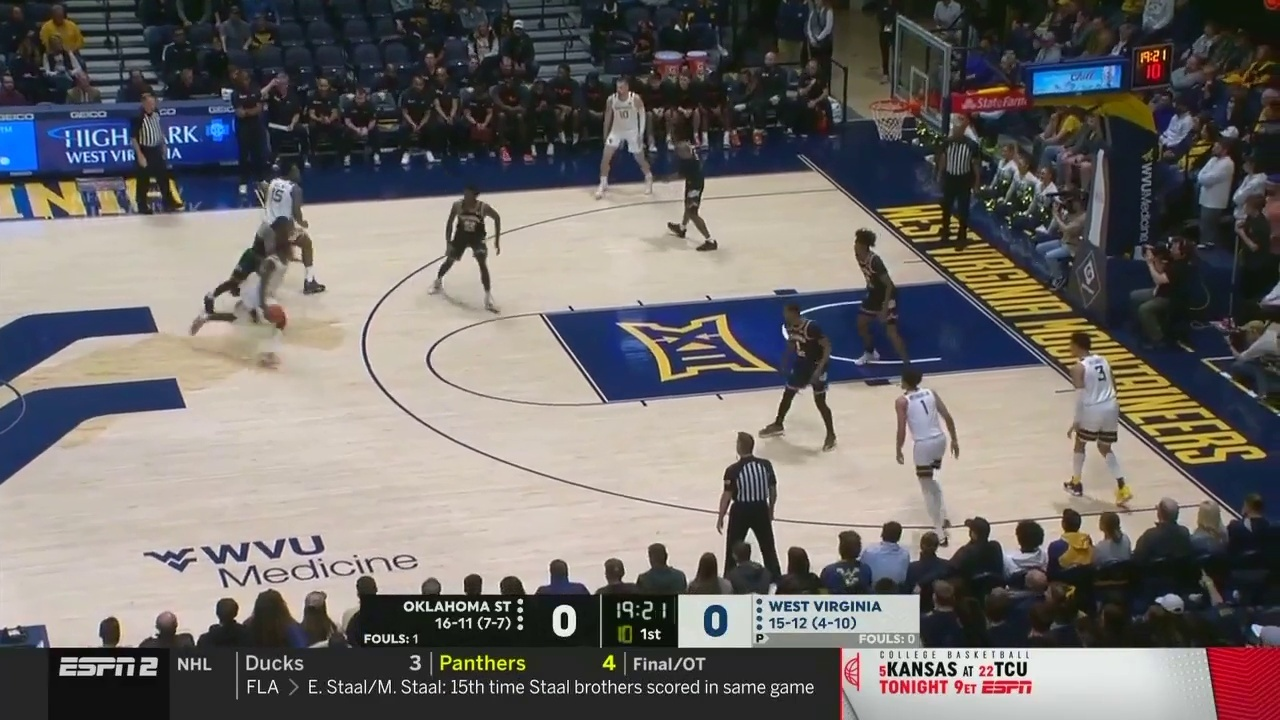
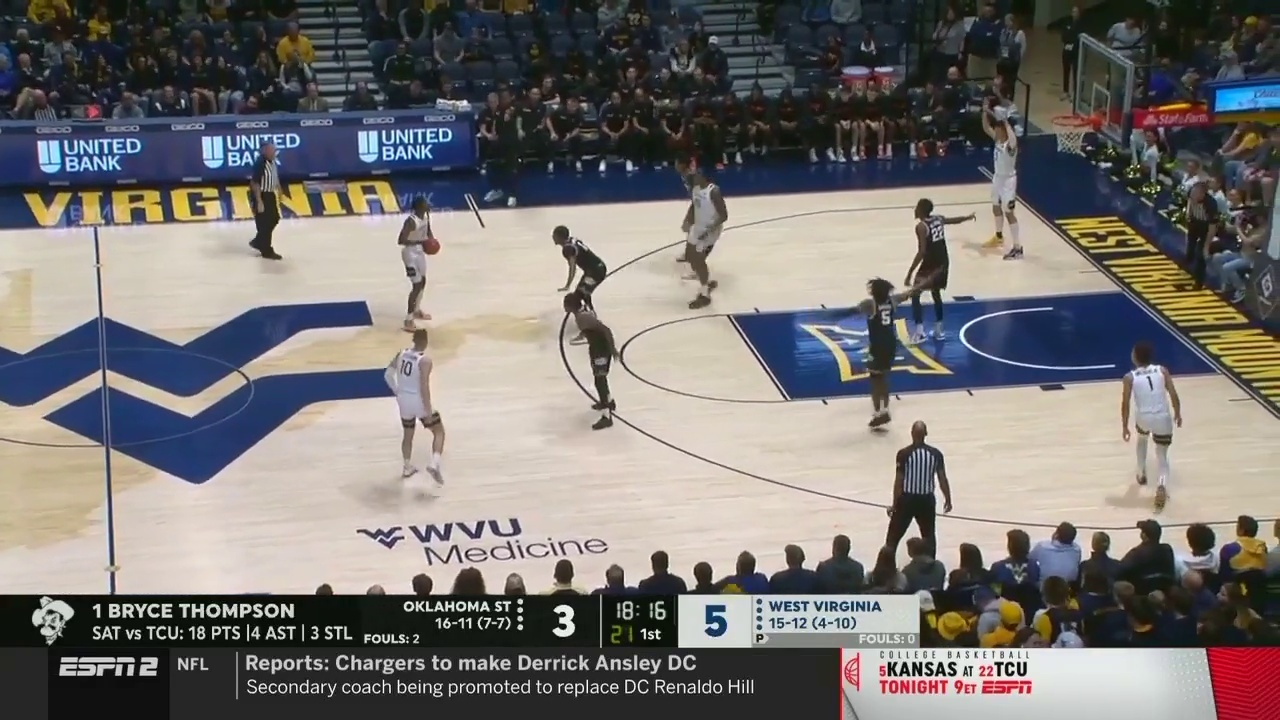
train

diff --git a/train_bball.py b/train_bball.py
@@ -27,11 +27,11 @@ if __name__=='__main__':
     model_prefix = ''
     batch_size = 3
     models_path = './models/'
-    epochs_already_trained = 100
+    epochs_already_trained = 0
 
     size = (256, 256)
     lr = 1e-3
-    epochs_nb = 1000
+    epochs_nb = 50
 
     optimizer_function = Adam
     save_after_N_epochs = 5
@@ -135,7 +135,7 @@ if __name__=='__main__':
             print('test :', total_epoch_loss, epoch + 1)
             if total_epoch_loss < prev_best_loss:
                 prev_best_loss = total_epoch_loss
-                save(model.state_dict(), models_path + model_prefix + 'best_model.pth')
+                save(model.state_dict(), models_path + model_prefix + 'bball.pth')
                 print('\t\tSaved at epoch ' + str(epoch + 1))
             print()
         torch.cuda.empty_cache()

diff --git a/testing_dataset.py b/testing_dataset.py
@@ -13,8 +13,8 @@ import numpy as np
 
 if __name__ == '__main__':
 
-    image_path = 'dataset/ncaa_bball/images/20230220_WVU_OklahomaSt/frame_1891.jpg'
-    annotation_path = 'dataset/ncaa_bball/annotations/20230220_WVU_OklahomaSt/frame_1891.npy'
+    image_path = 'dataset/ncaa_bball/images/20230220_WVU_OklahomaSt/frame_4501.jpg'
+    annotation_path = 'dataset/ncaa_bball/annotations/20230220_WVU_OklahomaSt/frame_4501.npy'
 
     print('test')
     print(np.load(annotation_path))

diff --git a/data_management/homo_to_points.py b/data_management/homo_to_points.py
@@ -58,7 +58,7 @@ if __name__ == "__main__" :
             # scale_factor[0, 0] = out_size[0] / 115
             # scale_factor[1, 1] = out_size[1] / 74
             scale_factor[0, 0] = out_size[0] / 94
-            scale_factor[1, 1] = out_size[1] / 40
+            scale_factor[1, 1] = out_size[1] / 50
             h = scale_factor @ h
             h_back = np.linalg.inv(h)
 
